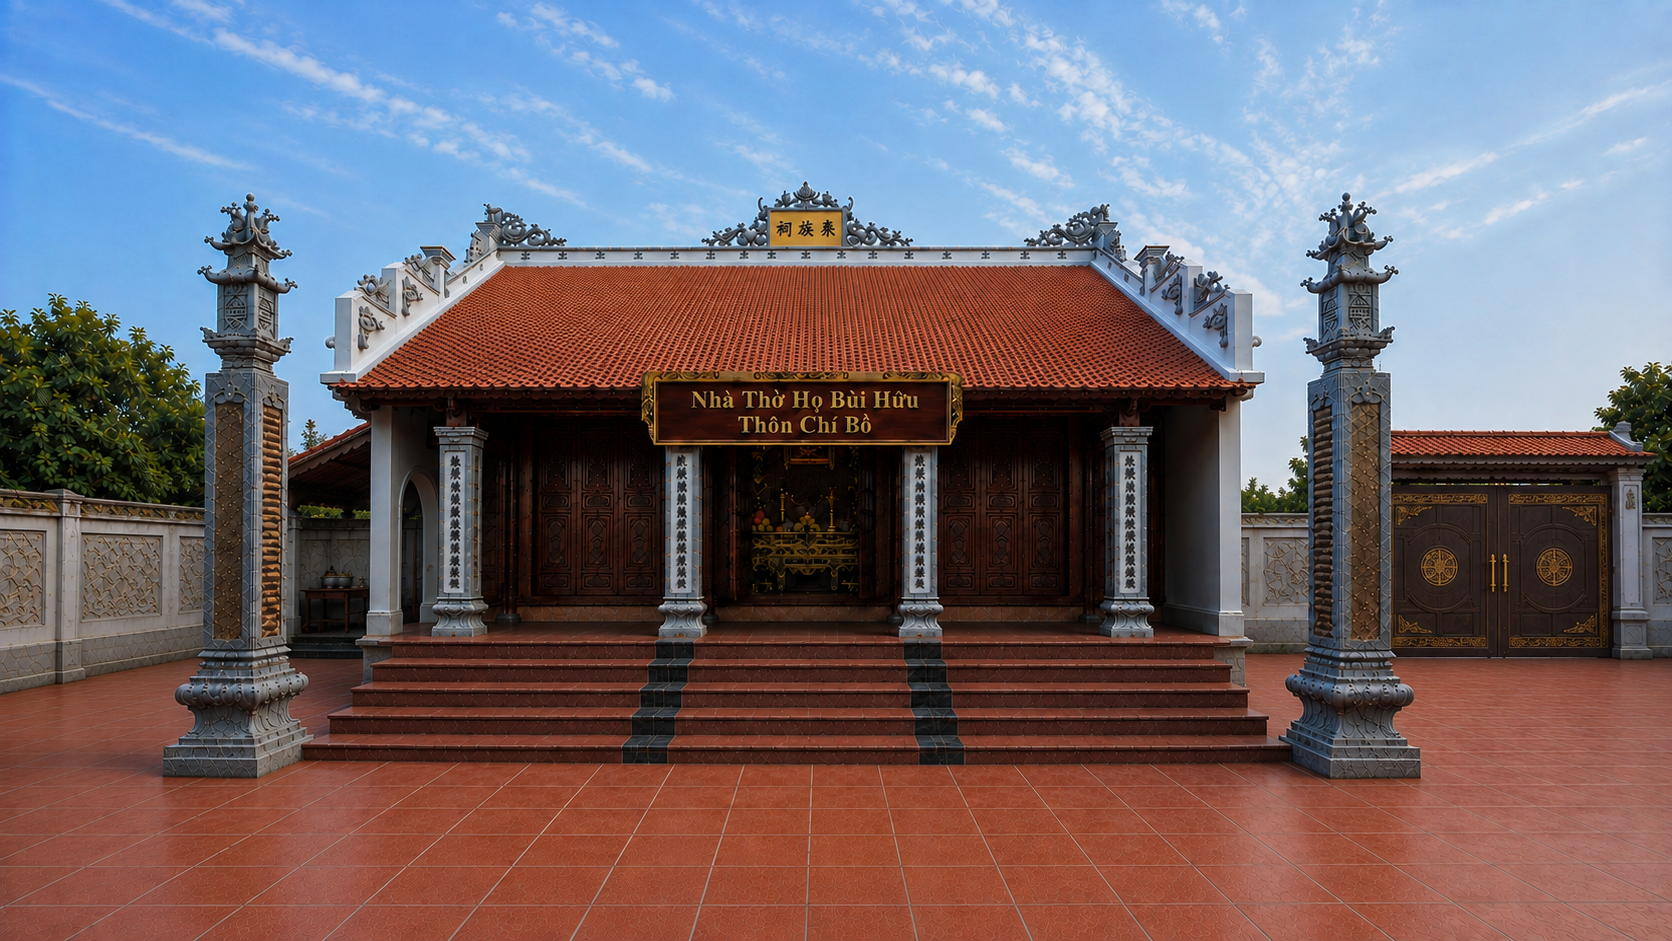
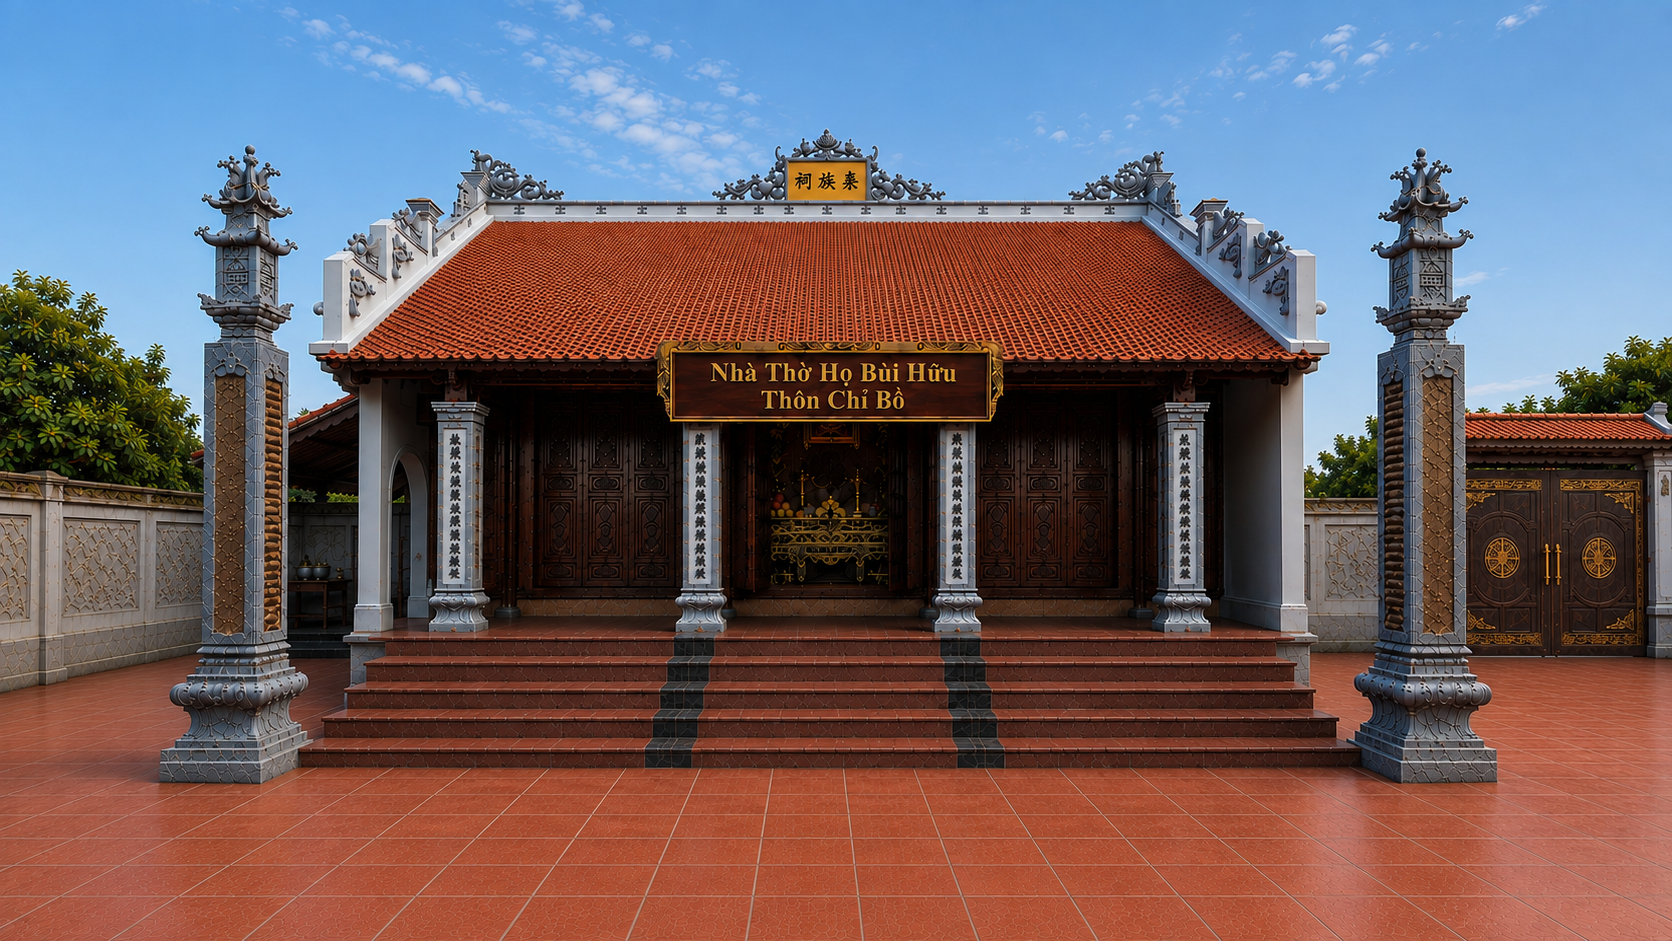
Tăng độ rõ và cân lại ảnh nhà thờ tổ

diff --git a/index.html b/index.html
@@ -20,7 +20,7 @@
     />
     <meta
       property="og:image"
-      content="https://phahe.troly.me/images/nha-tho-to-1600-3afc632e.jpg"
+      content="https://phahe.troly.me/images/nha-tho-to-1600-4737852c.jpg"
     />
     <meta property="og:image:type" content="image/jpeg" />
     <meta property="og:image:width" content="1600" />
@@ -37,7 +37,7 @@
     />
     <meta
       name="twitter:image"
-      content="https://phahe.troly.me/images/nha-tho-to-1600-3afc632e.jpg"
+      content="https://phahe.troly.me/images/nha-tho-to-1600-4737852c.jpg"
     />
     <meta
       name="twitter:image:alt"

diff --git a/src/components/GrampsjsTempleHero.js b/src/components/GrampsjsTempleHero.js
@@ -279,10 +279,10 @@ class GrampsjsTempleHero extends LitElement {
       <figure>
         <picture
           ><img
-            src="images/nha-tho-to-1600-3afc632e.jpg"
+            src="images/nha-tho-to-1600-4737852c.jpg"
             srcset="
-              images/nha-tho-to-800-3afc632e.jpg   800w,
-              images/nha-tho-to-1600-3afc632e.jpg 1600w
+              images/nha-tho-to-800-4737852c.jpg   800w,
+              images/nha-tho-to-1600-4737852c.jpg 1600w
             "
             sizes="(max-width: 760px) 100vw, 65vw"
             width="1672"

diff --git a/branding/nha-tho-to-prompt.md b/branding/nha-tho-to-prompt.md
@@ -2,14 +2,14 @@
 
 Công cụ: ImageGen tích hợp, không dùng CLI/API dự phòng.
 Ảnh kết quả: `nha-tho-to-chi-bo.png`.
-Ảnh nền và vị trí hai cột lớn do người dùng chọn làm chuẩn; chỉ hiệu chỉnh cổng phải và lối bên trái.
+Ảnh nền và kiến trúc do người dùng chọn làm chuẩn; lần hiệu chỉnh này chỉ tăng độ rõ và cân lại phối cảnh.
 
 ## Prompt cuối đã dùng
 
-Perform an extremely localized architectural edit. Lock the entire main roof, name plaque, wooden facade, altar, main stairs, all four short porch columns, both tall pillars and courtyard exactly as they are. Change only the left passage region and far-right gate region.
+Improve fine-detail clarity and rebalance the camera view into a polished, dignified 16:9 website hero photograph. Preserve the main temple, red tiled roof, grey ridge ornaments, yellow roof plaque, the wooden Vietnamese sign with the exact two lines “Nhà Thờ Họ Bùi Hữu” and “Thôn Chỉ Bồ”, all four short porch columns, both tall ceremonial pillars, the left through-arch and side area, right rear gate, walls, trees, courtyard and central altar. Do not reinterpret or replace inscriptions.
 
-Keep the existing curved arch in the left return wall. Make it an unmistakable through-passage with a shaded inner reveal. Immediately behind and left of its threshold, create three shallow grey stone steps whose travel direction is horizontal right-to-left. The highest step begins inside the arch at porch elevation; the lowest meets the covered side yard. Shift the work table and bowls fully off the porch to the lower yard under the left lean-to roof. Keep the burner in the outside corner. Do not move either left column.
+Correct subtle perspective imperfections. Keep the ridge, eaves, sign, stair nosings and courtyard grout lines level. Keep pillars and walls vertical. Center the temple and altar optically between the tall pillars, with equal outer margins. Keep enough space around finials and courtyard while reducing excess sky or foreground. Do not crop architectural elements.
 
-Replace the right gate with a 4.5-metre vehicle gate, 4 metres high. Increase the double-leaf opening to approximately 28–32% of the main wooden facade width. The gate and its wall occupy one plane parallel to the temple's rear wall, only 1.2 metres behind the temple. It is not on the front boundary or joined to the porch. Use the narrow right-side alley and natural occlusion to show the gate is behind the house. The rear wall connects directly to both gate piers. Keep the right ceremonial pillar at its exact position and scale while keeping most of the gate visible.
+Increase realistic clarity on roof tiles, carved wood, stone reliefs, column inscriptions, altar, gate metalwork and grout lines. Smooth generation noise, warped tiles and mushy floor texture. Balance exposure so the altar remains legible. Retain natural material texture and restrained color. Avoid oversaturation, HDR halos, excessive sharpening, plastic smoothing or painterly texture.
 
-Preserve the wide 16:9 photograph. Do not introduce a sidewalk, roadway, new pillars, extra arches, signs, people, vehicles or text changes.
+Add no text, people, furniture, vehicles, banners, offerings outside the altar, pillars, gates, steps or decorative objects. The result must look like the same photograph captured with a better lens and careful architectural post-processing.

diff --git a/branding/README.md b/branding/README.md
@@ -38,9 +38,9 @@ trên mái là bản đọc tạm từ ảnh bị che, chưa phải bản chép 
 
 Giữ nguyên bản được chọn, chỉ thu nhỏ và nén bằng
 `pwsh -File branding/export-temple.ps1` thành JPEG 800/1600 px trong `images/`
-(khoảng 79/284 KiB). Trình duyệt chọn kích thước bằng `srcset`. Đường dẫn ảnh
+(khoảng 86/315 KiB). Trình duyệt chọn kích thước bằng `srcset`. Đường dẫn ảnh
 trong `GrampsjsTempleHero.js` và metadata chia sẻ dùng tên tệp có hậu tố
-`3afc632e` (tám ký tự đầu SHA-256 ảnh nguồn) để trình duyệt và máy chủ tải lại
+`4737852c` (tám ký tự đầu SHA-256 ảnh nguồn) để trình duyệt và máy chủ tải lại
 ảnh mới. Khi thay ảnh, cập nhật cùng phiên bản tại các vị trí này. Ảnh nguồn
 không đưa vào bản build.
 Prompt hiệu chỉnh khu phụ lưu tại [nha-tho-to-prompt.md](nha-tho-to-prompt.md).
